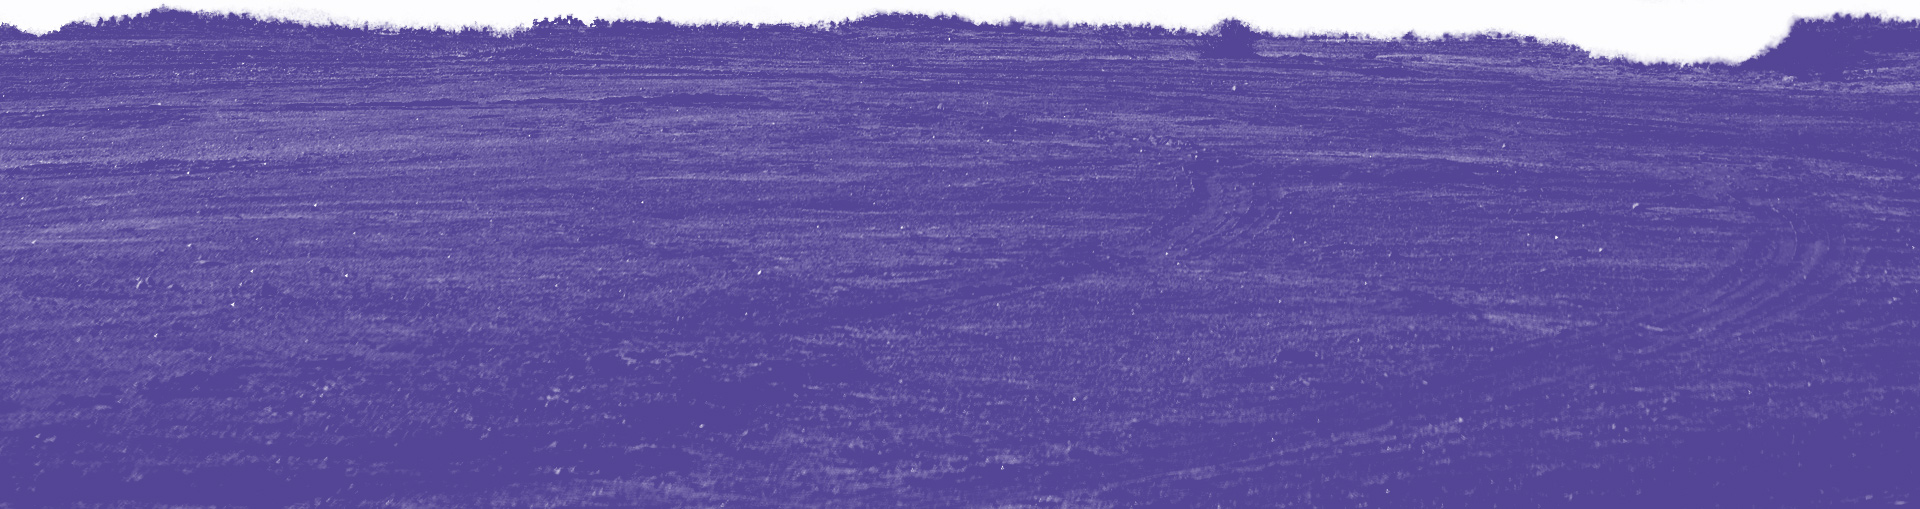
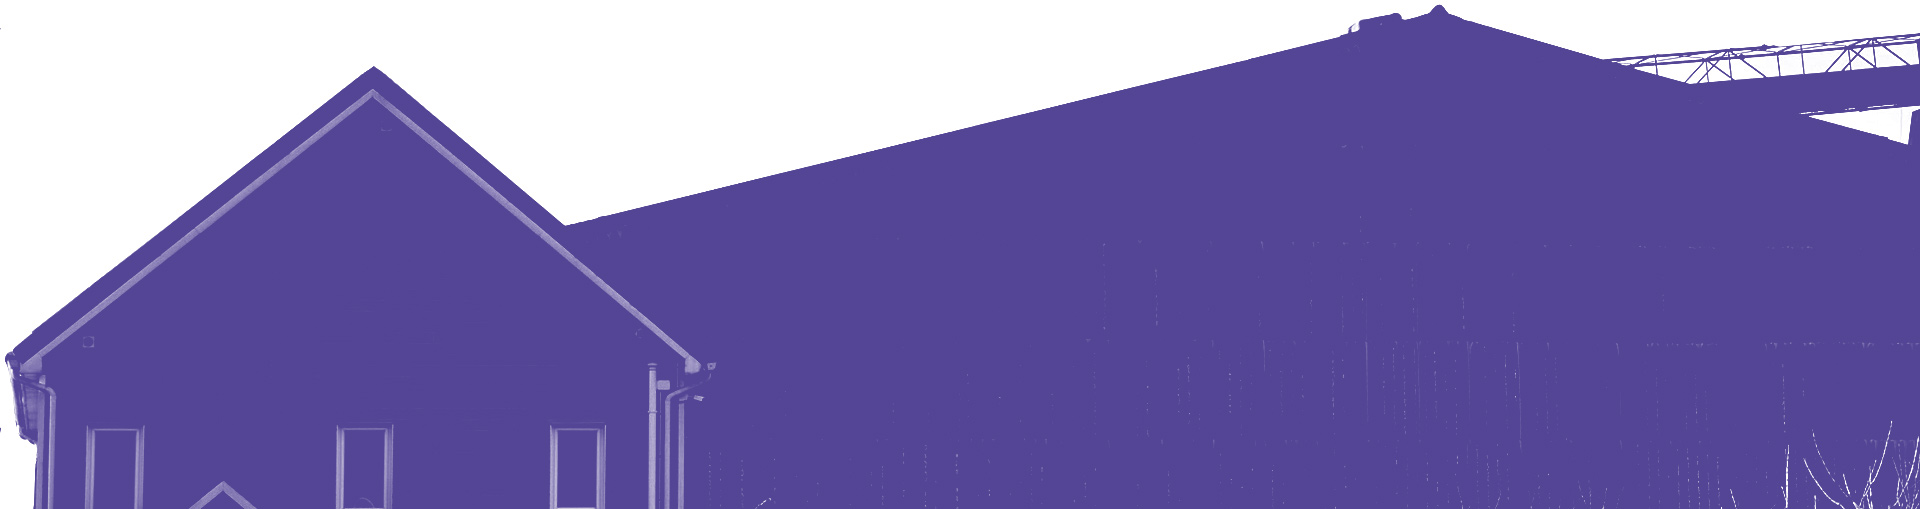
variante footer

diff --git a/components/Footer.vue b/components/Footer.vue
@@ -52,7 +52,7 @@ export default {
 <style lang="scss">
 
 .footer {
-  padding-top: calc($line-height * 4);
+  padding-top: calc($line-height * 12);
   padding-right: $line-height;
   padding-bottom: calc($line-height * 2);
   padding-left: calc($line-height * 2);
@@ -76,7 +76,7 @@ export default {
         url("/img/background-bottom.jpg");
       background-size: auto, auto, cover;
       background-repeat: no-repeat, repeat-y, no-repeat;
-      background-position: bottom left, bottom left, top, top;
+      background-position: bottom left, bottom left, bottom, bottom;
     }
   }
 

diff --git a/assets/scss/_layout.scss b/assets/scss/_layout.scss
@@ -46,7 +46,7 @@
     // border-color: $tertiary;
     // color: $tertiary;
     border-color: $brand-color-secondary;
-    color: $brand-color-invert;
+    color: $brand-color;
   }
 }
 
